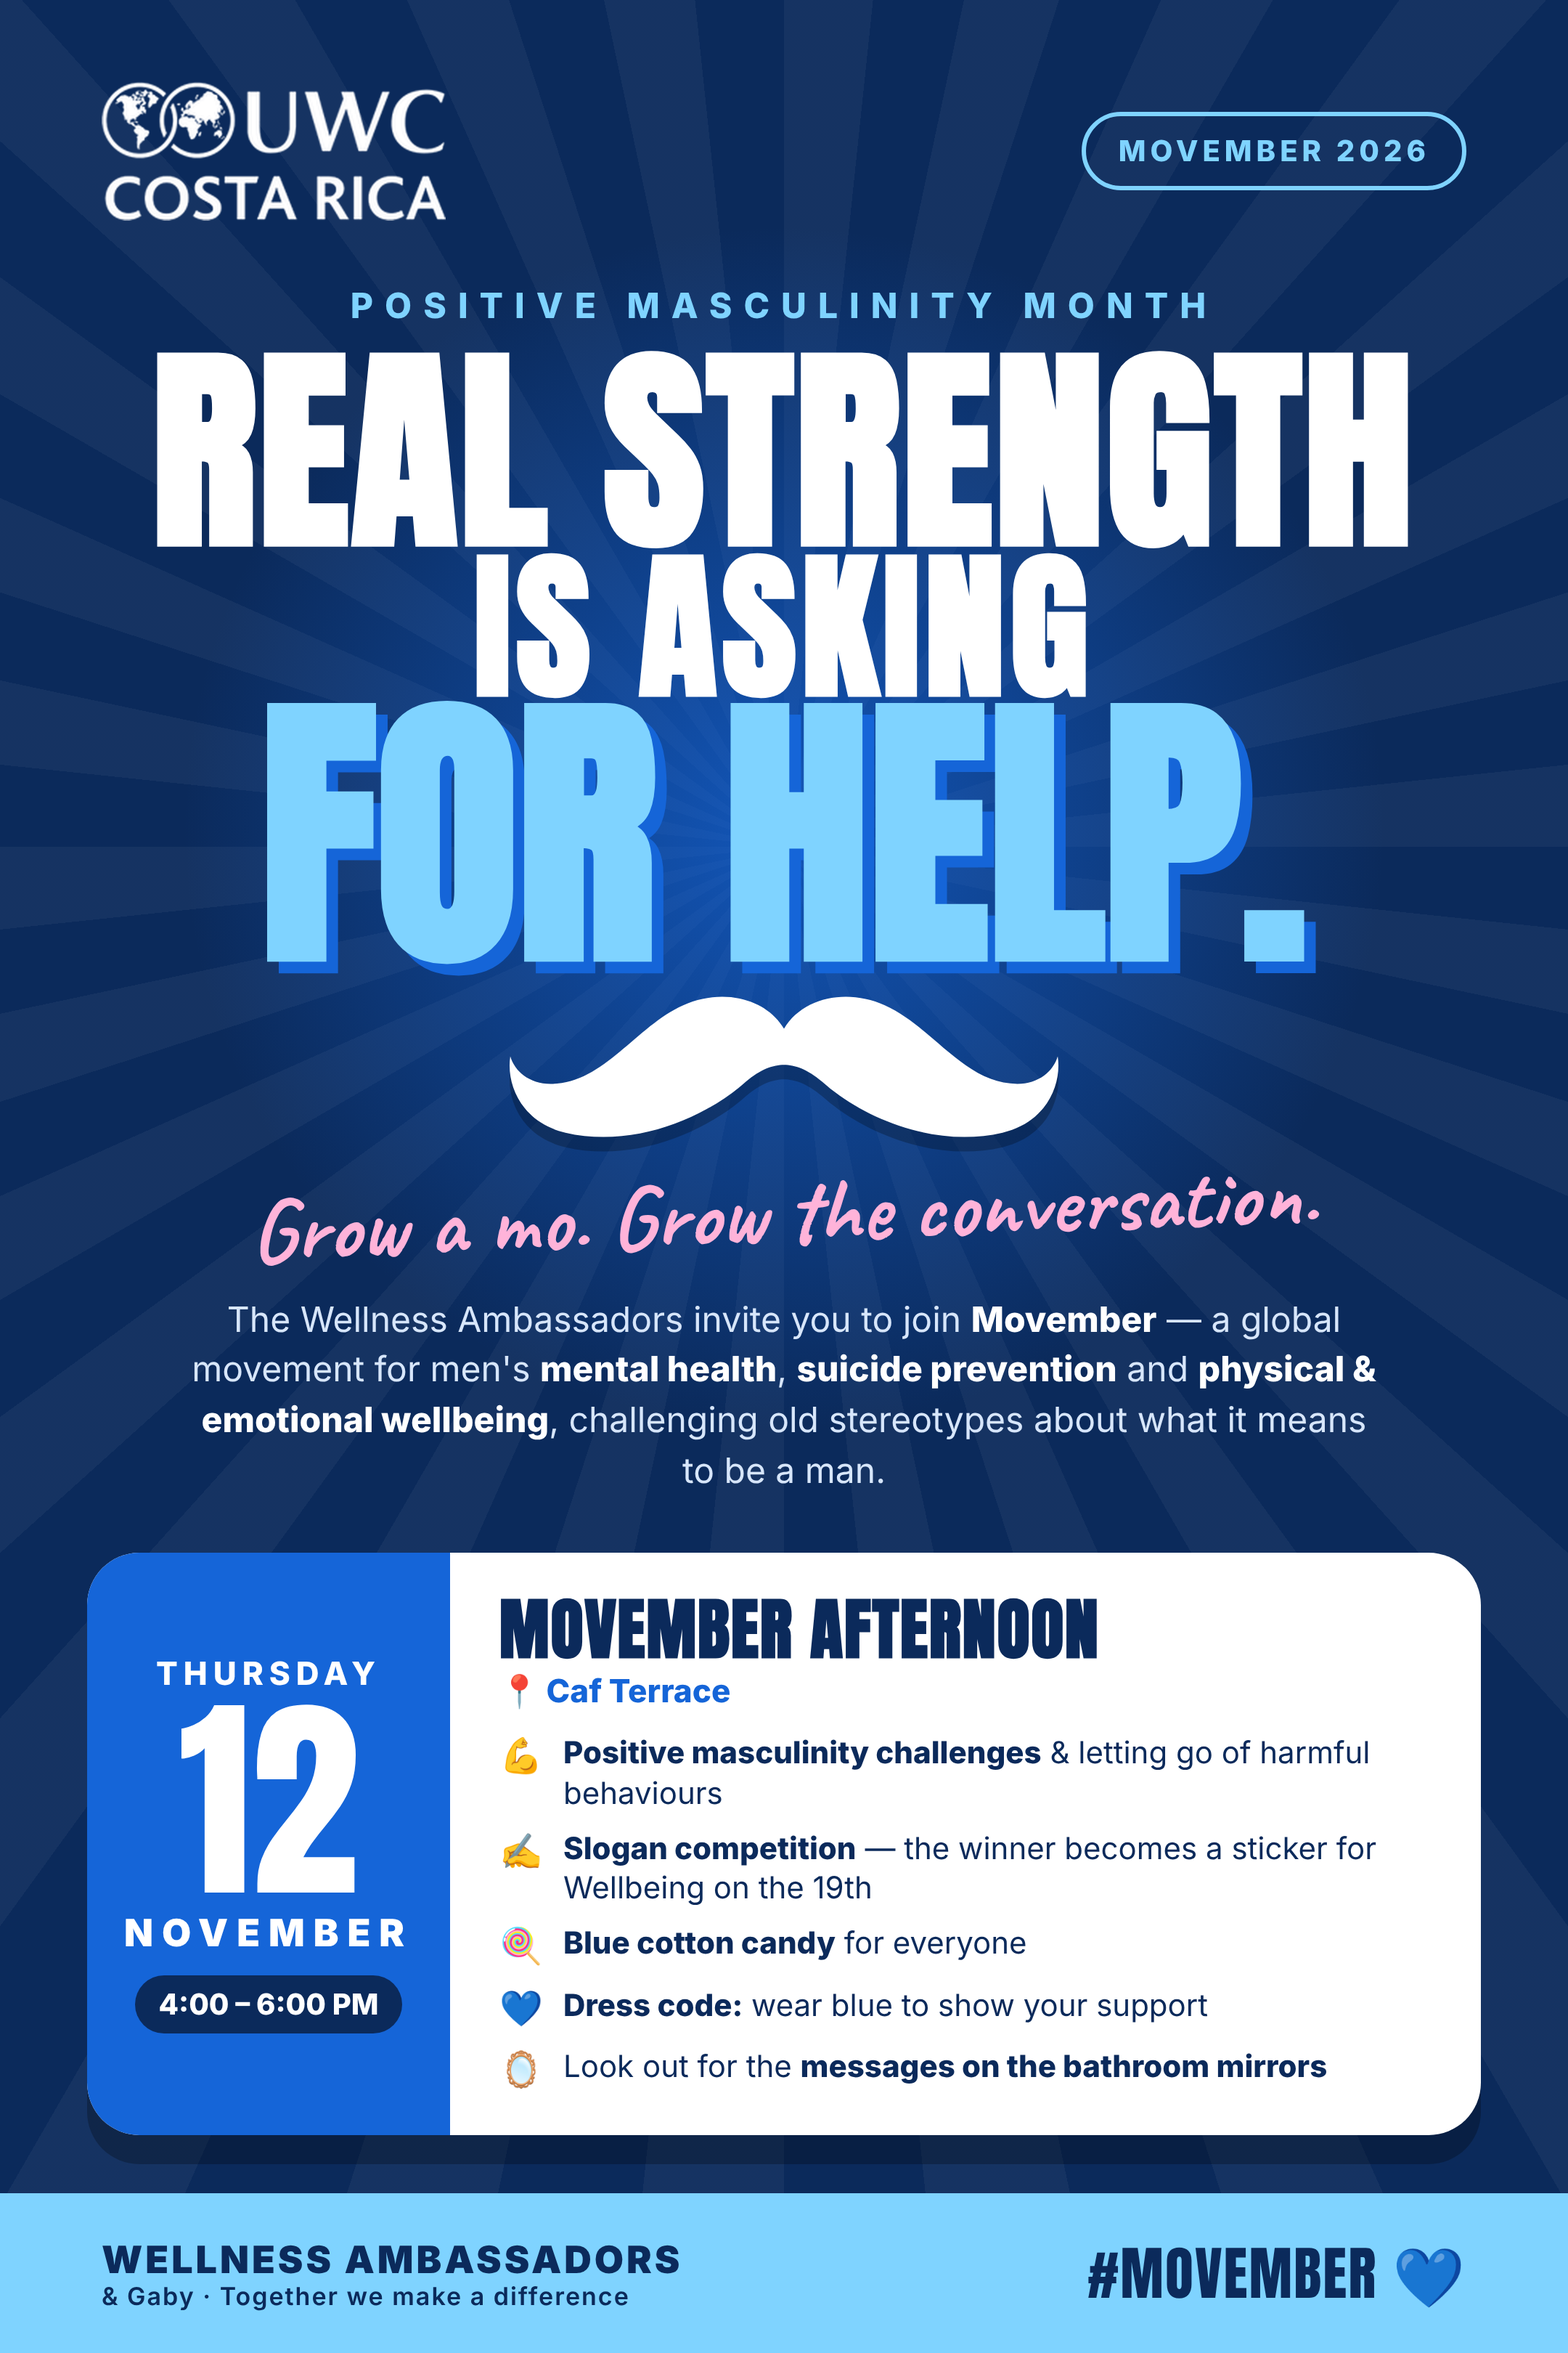
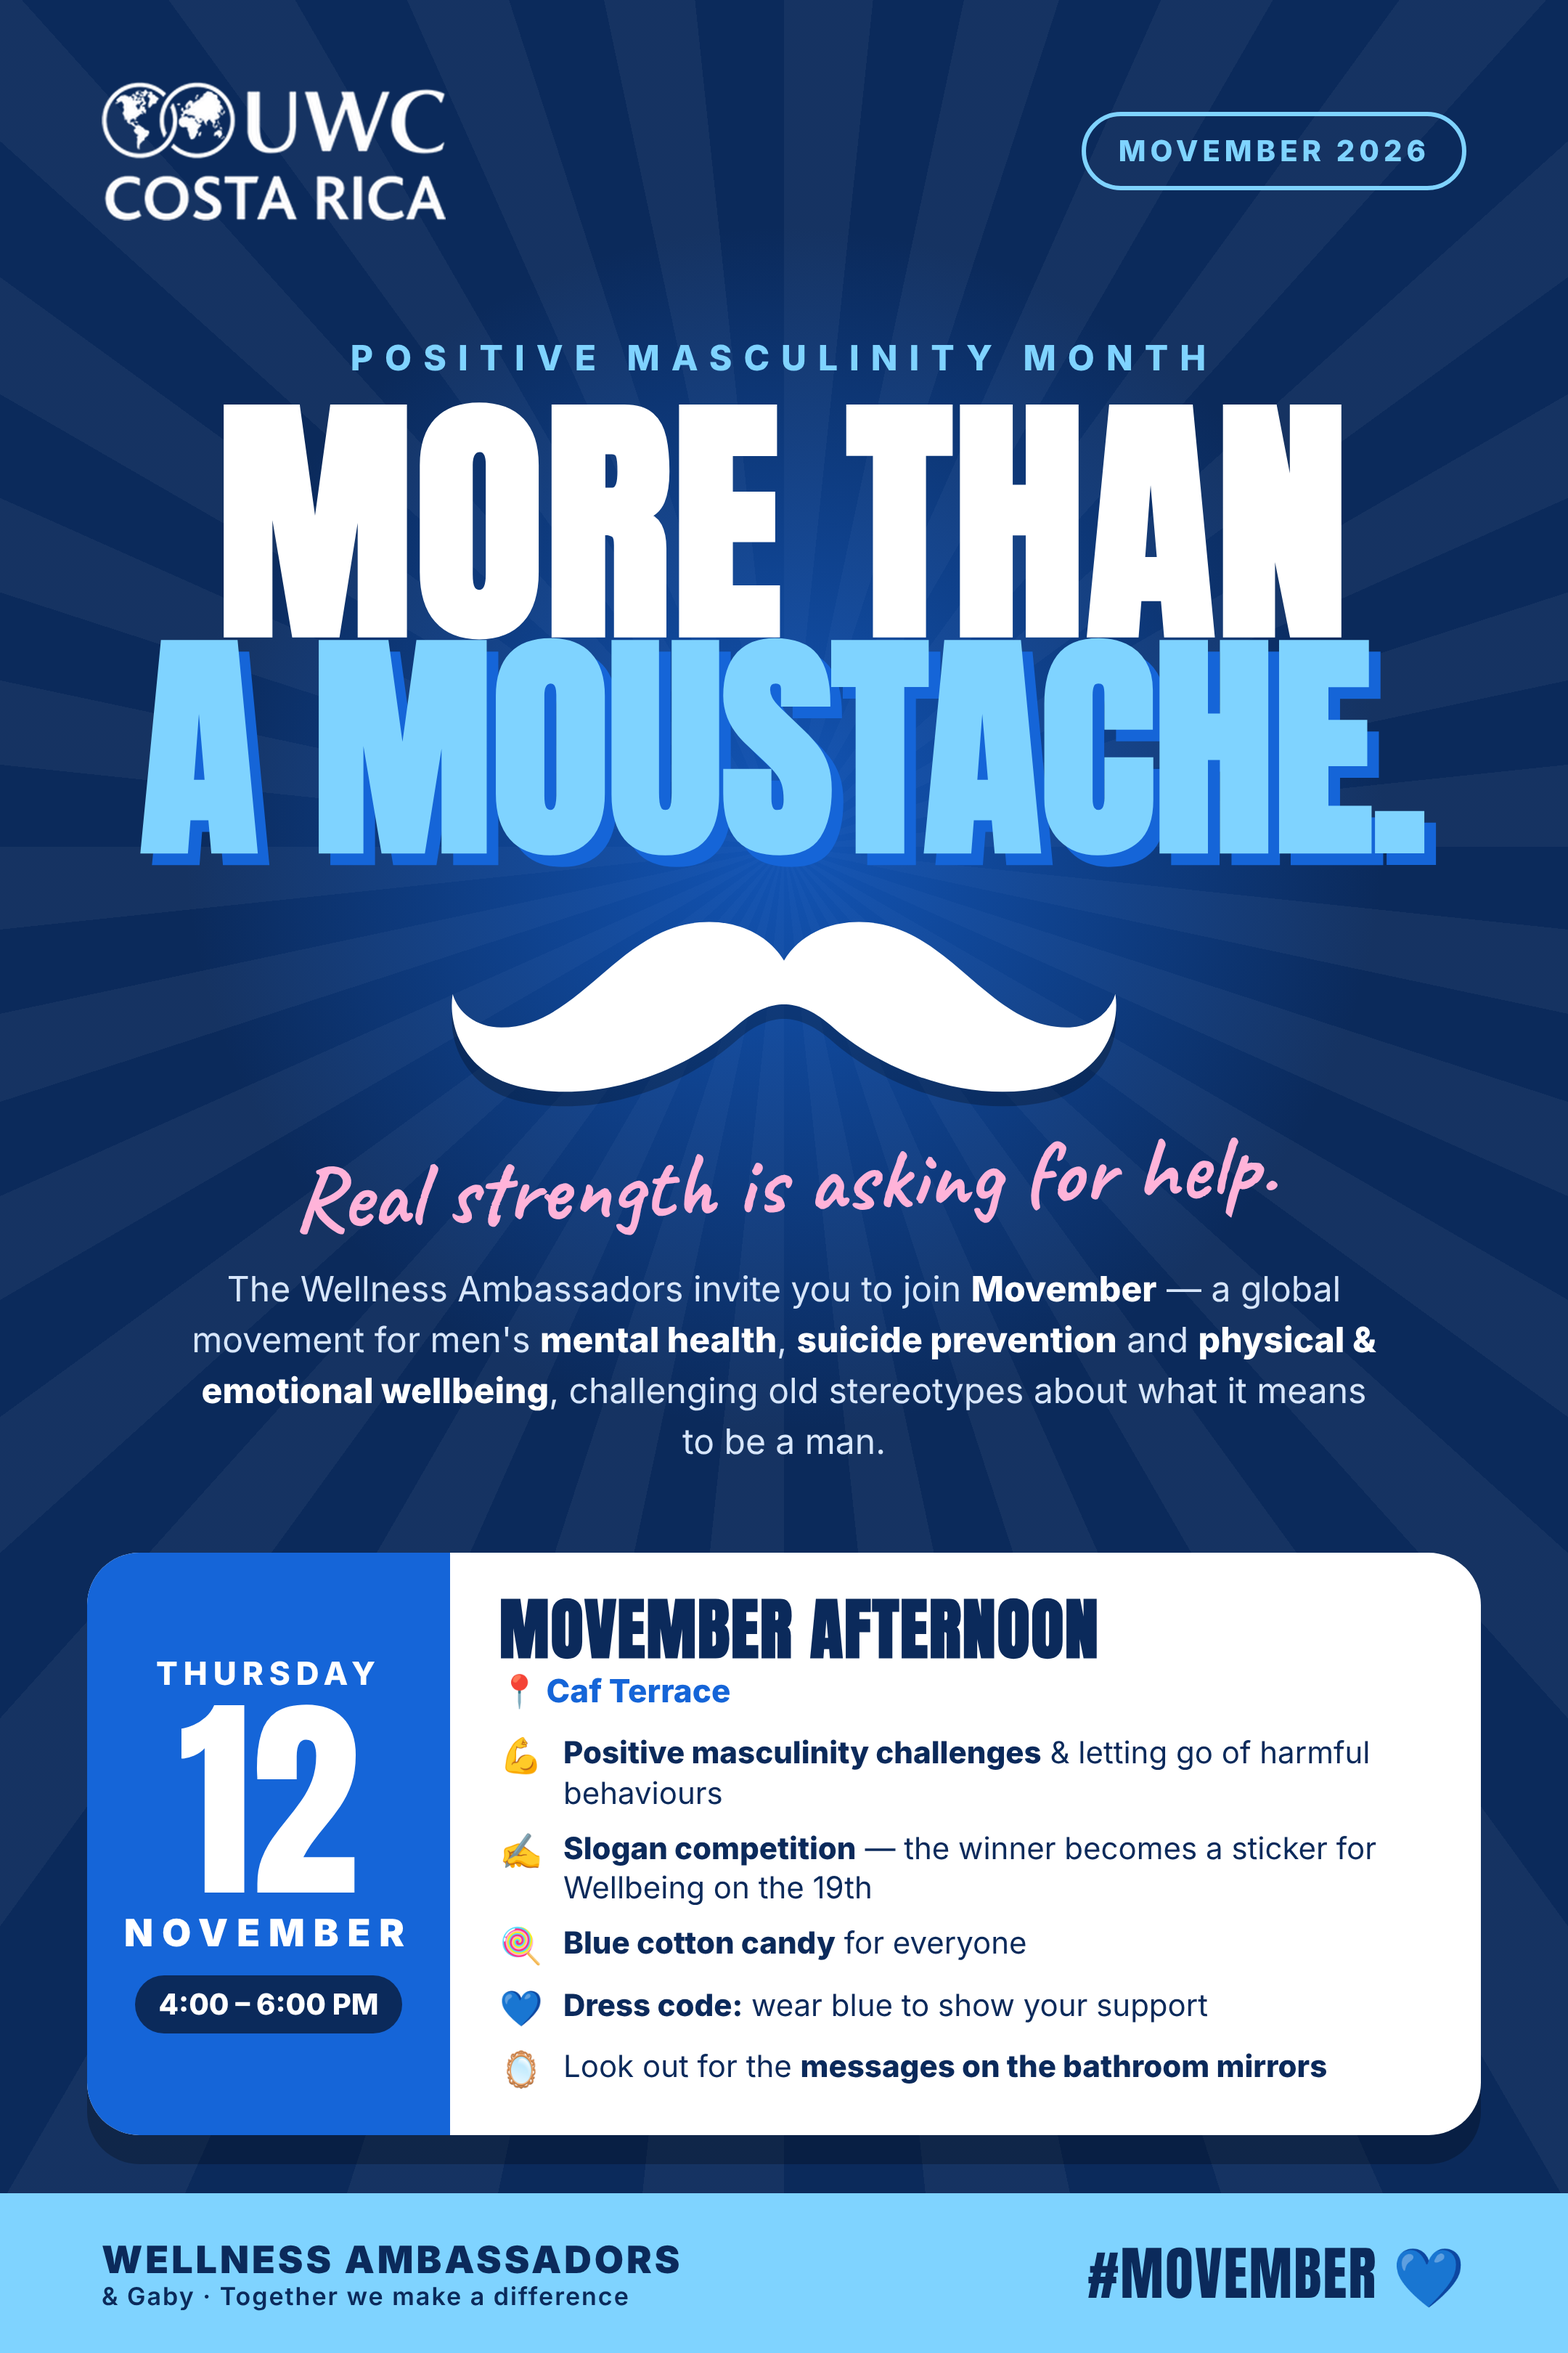
Movember flyer: headline 'More than a moustache.' with 'Real strength is asking for help.' tagline
Claude-Session: https://claude.ai/code/session_01EjvQbzvBeiKCHjVu3ruf4E

Changed region(s): [[0.0931, 0.1247, 0.9306, 0.6235]]

diff --git a/movember-2026/flyer.html b/movember-2026/flyer.html
@@ -13,13 +13,13 @@ header{position:relative;display:flex;justify-content:space-between;align-items:
 .logo{}
 .logo img{display:block;height:96px}
 .badge{border:3px solid var(--candy);color:var(--candy);font-weight:800;font-size:20px;letter-spacing:3px;padding:12px 22px;border-radius:40px}
-.kicker{position:relative;text-align:center;margin-top:44px;font-weight:800;letter-spacing:8px;font-size:24px;color:var(--candy)}
+.kicker{position:relative;text-align:center;margin-top:80px;font-weight:800;letter-spacing:8px;font-size:24px;color:var(--candy)}
 h1{position:relative;font-family:Anton;text-align:center;line-height:.9;text-transform:uppercase;margin-top:18px}
-h1 .l1{display:block;font-size:150px;letter-spacing:2px}
+h1 .l1{display:block;font-size:180px;letter-spacing:2px}
 h1 .l3{display:block;font-size:110px;letter-spacing:4px;margin:4px 0}
-h1 .l2{display:block;font-size:200px;color:var(--candy);text-shadow:8px 8px 0 var(--blue)}
-.mo{position:relative;display:block;margin:14px auto 0;width:380px;filter:drop-shadow(0 10px 0 rgba(0,0,0,.25))}
-.tag{position:relative;text-align:center;font-family:Caveat;font-size:62px;color:var(--pink);margin-top:6px;transform:rotate(-2deg)}
+h1 .l2{display:block;font-size:165px;color:var(--candy);text-shadow:8px 8px 0 var(--blue)}
+.mo{position:relative;display:block;margin:36px auto 0;width:460px;filter:drop-shadow(0 10px 0 rgba(0,0,0,.25))}
+.tag{position:relative;text-align:center;font-family:Caveat;font-size:62px;color:var(--pink);margin-top:16px;transform:rotate(-2deg)}
 .sub{position:relative;text-align:center;font-size:24px;line-height:1.45;max-width:820px;margin:18px auto 0;color:#d7e6fb}
 .sub strong{color:#fff}
 .event{position:absolute;left:60px;right:60px;bottom:150px;background:var(--white);color:var(--navy);border-radius:36px;display:grid;grid-template-columns:250px 1fr;overflow:hidden;box-shadow:0 20px 0 rgba(0,0,0,.25)}
@@ -48,11 +48,11 @@ footer .hash{font-family:Anton;font-size:40px;letter-spacing:1px}
   </header>
 
   <div class="kicker">POSITIVE MASCULINITY MONTH</div>
-  <h1><span class="l1">Real strength</span><span class="l3">is asking</span><span class="l2">for help.</span></h1>
+  <h1><span class="l1">More than</span><span class="l2">a moustache.</span></h1>
 
   <svg class="mo" viewBox="0 0 520 150"><path fill="#fff" d="M260 40c-18-30-60-38-95-22C120 38 90 92 40 92 20 92 6 80 2 66c-4 26 10 62 52 72 64 15 132-14 170-48 14-12 26-16 36-16s22 4 36 16c38 34 106 63 170 48 42-10 56-46 52-72-4 14-18 26-38 26-50 0-80-54-125-74-35-16-77-8-95 22z"/></svg>
 
-  <div class="tag">Grow a mo. Grow the conversation.</div>
+  <div class="tag">Real strength is asking for help.</div>
   <p class="sub">The Wellness Ambassadors invite you to join <strong>Movember</strong> — a global movement for men's <strong>mental health</strong>, <strong>suicide prevention</strong> and <strong>physical &amp; emotional wellbeing</strong>, challenging old stereotypes about what it means to be a man.</p>
 
   <div class="event">
